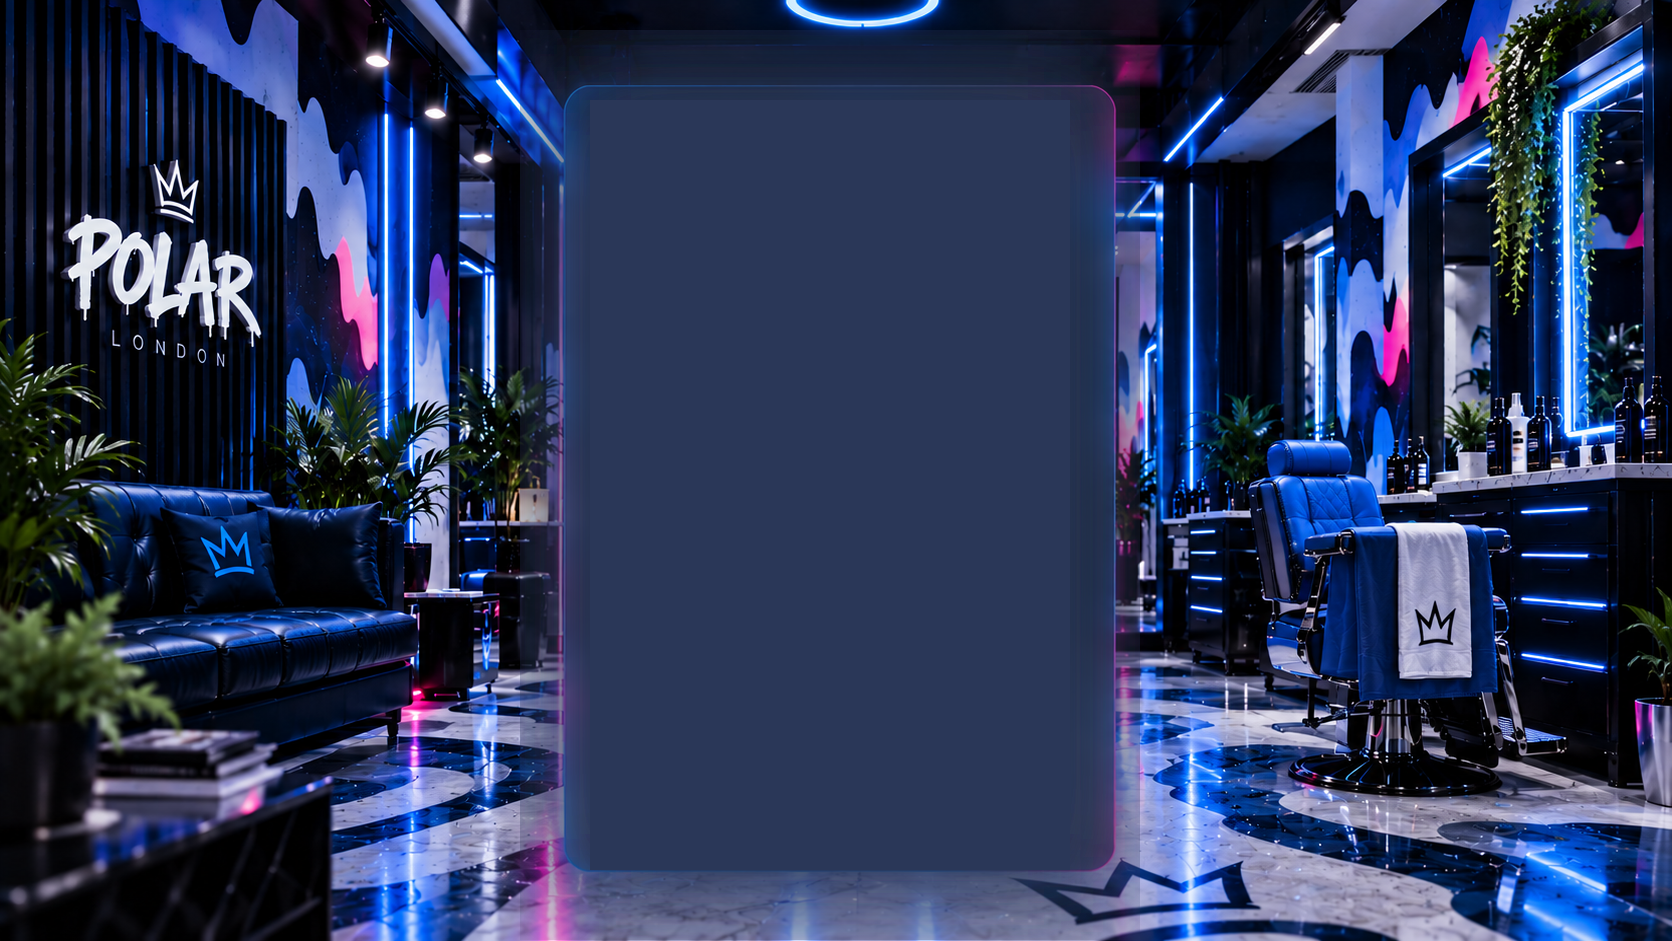
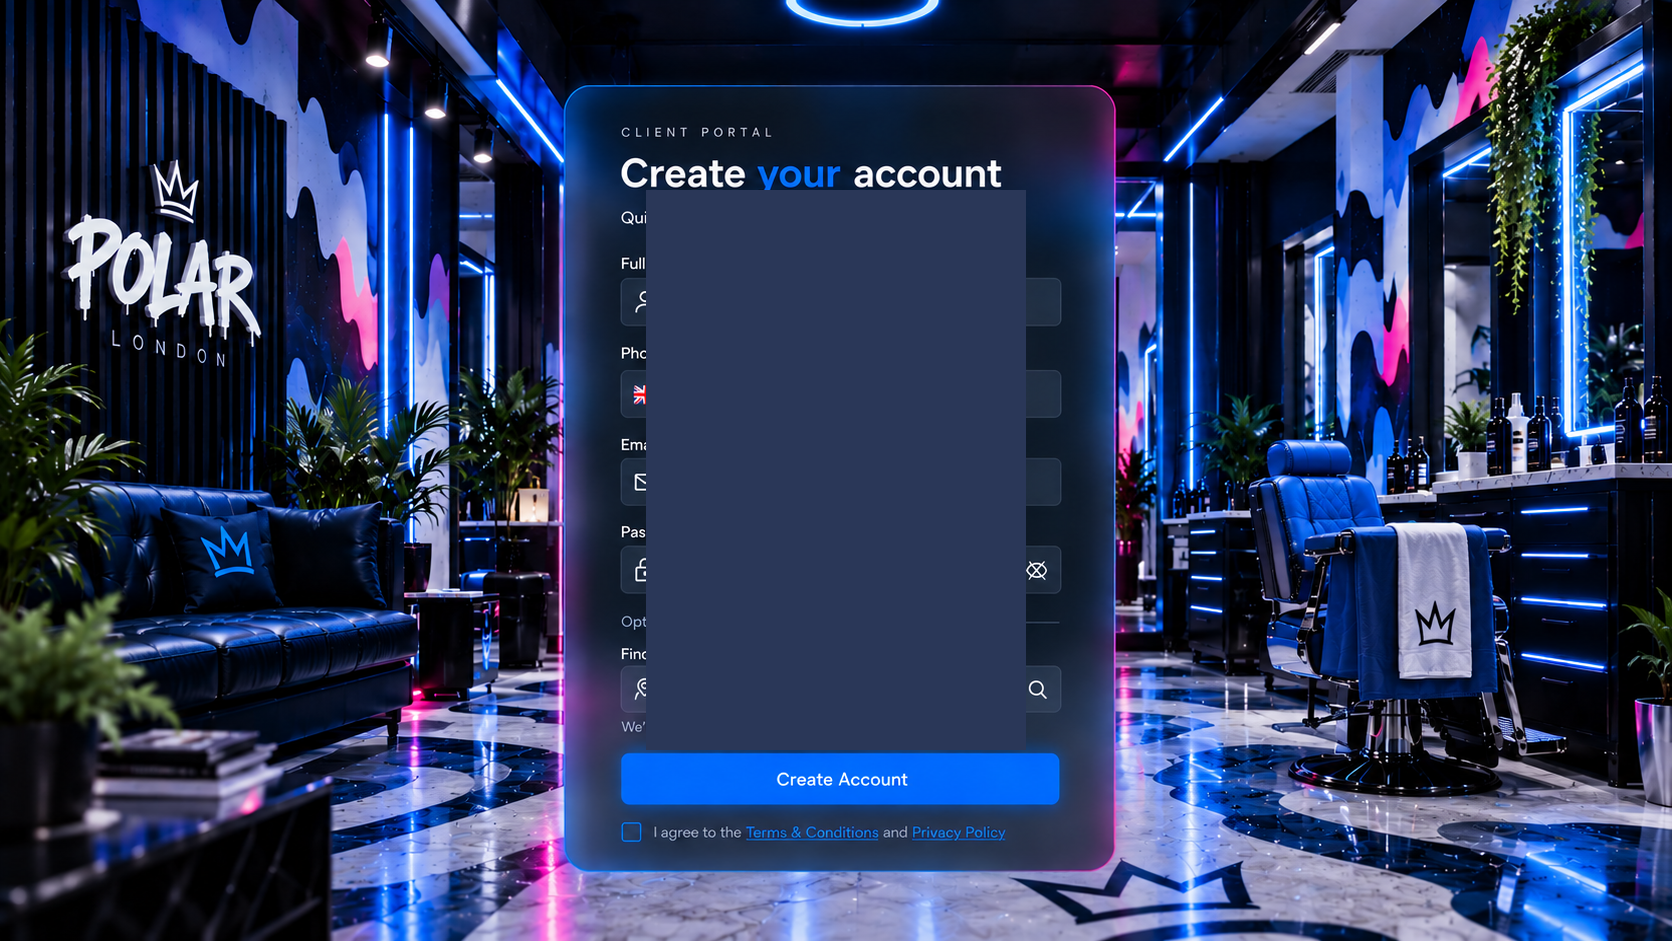
Reduce Client Create Account card to ~50%, two-layer composition only
Card resized to roughly half its prior footprint (max-w-md -> sm:max-w-[300px],
tighter padding/typography/spacing throughout) so desktop is strictly two
visual layers: the POLAR Room background and one floating card, nothing
between them. Removed the page-wide dark overlay div that previously sat
between the two.

Background asset regenerated to match the smaller card's actual footprint
(previous fill region was sized for the old larger card, leaving a visible
ghost outline around the new smaller one).

Mobile, copy, fields, functionality, auth/Supabase/backend unchanged.

Changed region(s): [[0.311, 0.0308, 0.6842, 1.0]]

diff --git a/src/app/signup/client/page.tsx b/src/app/signup/client/page.tsx
@@ -29,6 +29,10 @@ import {
 // top — inputs, password toggle, checkbox, links, button — is real,
 // functional markup, not a click-overlay on a flat image.
 //
+// Desktop is deliberately exactly two visual layers: the room
+// background, and one floating card. No dimming overlay or other
+// layer sits between them.
+//
 // Consent: the artwork shows a single checkbox ("Terms & Conditions
 // and Privacy Policy"). The live signup trigger independently
 // requires a separate, explicit 16+ affirmation
@@ -48,15 +52,14 @@ import {
 // Address: single optional free-text field, per the locked backend
 // resolution — its value is not yet sent to Supabase (see
 // signUpClient); real autocomplete/lookup is a future addition.
-// Desktop (sm+) uses a deliberately tighter vertical rhythm than
-// mobile so the whole card fits one screen with no scroll at normal
-// laptop/desktop sizes (1366x768 and up) — see file header comment
-// and the "single-screen portal" requirement. Mobile keeps its own
-// spacing entirely; every sm: override below only ever tightens, it
-// never changes copy, fields, or input usability (touch targets stay
-// comfortable, just less surrounding whitespace).
+//
+// Desktop (sm+) uses a deliberately much smaller/tighter card than
+// mobile (~50% smaller overall) so it reads as a compact floating
+// card rather than filling the screen. Mobile keeps its own spacing
+// entirely; every sm: override below only ever scales down, it never
+// changes copy, fields, or drops below a usable input size.
 const INPUT_CLASS =
-  "w-full rounded-lg border border-white/15 bg-white/5 py-2.5 sm:py-1.5 pl-10 pr-3 text-sm text-white outline-none placeholder:text-white/40 focus:border-royal-light";
+  "w-full rounded-lg border border-white/15 bg-white/5 py-2.5 sm:py-1 pl-10 sm:pl-8 pr-3 text-sm text-white outline-none placeholder:text-white/40 focus:border-royal-light sm:text-xs";
 
 export default function ClientSignupPage() {
   const [error, setError] = useState<string | null>(null);
@@ -87,15 +90,11 @@ export default function ClientSignupPage() {
 
   return (
     <main className="relative min-h-screen overflow-hidden bg-navy sm:h-[100dvh]">
-      {/* Desktop background: width-driven (100% of viewport width, so
+      {/* Layer 1 — background. Width-driven (100% of viewport width, so
           the POLAR logo on the left and chair on the right are never
           cropped), height derived from the image's own aspect ratio
           (1672x941) rather than stretched or force-fit to the
-          viewport height. On the rare viewport wider-than-16:9 than
-          the source image, overflow-hidden clips symmetrically
-          top/bottom (ceiling/floor) only — never the sides. No
-          object-fit crop/letterbox is needed inside, since this
-          wrapper's aspect ratio always matches the image exactly. */}
+          viewport height. Unchanged from the previous approved fix. */}
       <div className="absolute inset-0 hidden sm:flex sm:items-center sm:justify-center sm:overflow-hidden">
         <div className="relative w-full aspect-[1672/941]">
           <Image
@@ -116,66 +115,67 @@ export default function ClientSignupPage() {
         className="object-cover sm:hidden"
         aria-hidden="true"
       />
-      <div className="absolute inset-0 bg-navy/25" aria-hidden="true" />
 
+      {/* Layer 2 — the one floating card. Nothing else sits between
+          this and the background above. */}
       <div className="relative flex min-h-screen items-center justify-center px-5 py-16 sm:h-[100dvh] sm:min-h-0 sm:px-12 sm:py-4">
         <form
           onSubmit={handleSubmit}
-          className="w-full max-w-md rounded-2xl border border-white/15 bg-navy/70 p-6 text-white shadow-ice-lg backdrop-blur-xl sm:max-w-sm sm:p-5"
+          className="w-full max-w-md rounded-2xl border border-white/15 bg-navy/70 p-6 text-white shadow-ice-lg backdrop-blur-xl sm:max-w-[300px] sm:p-4"
         >
-          <p className="font-display text-xs tracking-[0.25em] text-royal-light">CLIENT PORTAL</p>
-          <h1 className="mt-2 font-display text-3xl tracking-wide sm:mt-1 sm:text-2xl">
+          <p className="font-display text-xs tracking-[0.25em] text-royal-light sm:text-[10px]">CLIENT PORTAL</p>
+          <h1 className="mt-2 font-display text-3xl tracking-wide sm:mt-1 sm:text-lg">
             Create <span className="text-royal-light">your</span> account
           </h1>
-          <p className="mt-1 text-sm text-white/60">Quick and easy. Get started in seconds.</p>
+          <p className="mt-1 text-sm text-white/60 sm:text-[11px]">Quick and easy. Get started in seconds.</p>
 
-          <div className="mt-6 space-y-4 sm:mt-3 sm:space-y-2">
+          <div className="mt-6 space-y-4 sm:mt-2 sm:space-y-1.5">
             <label className="block">
-              <span className="mb-1 block text-sm text-white/80">Full Name</span>
+              <span className="mb-1 block text-sm text-white/80 sm:text-xs">Full Name</span>
               <div className="relative">
-                <span className="pointer-events-none absolute inset-y-0 left-3 flex items-center">
-                  <UserIcon className="h-5 w-5 text-white/50" />
+                <span className="pointer-events-none absolute inset-y-0 left-3 flex items-center sm:left-2.5">
+                  <UserIcon className="h-5 w-5 text-white/50 sm:h-3.5 sm:w-3.5" />
                 </span>
                 <input name="full_name" type="text" required placeholder="e.g. Ahmed Khan" className={INPUT_CLASS} />
               </div>
             </label>
 
             <div>
-              <span className="mb-1 block text-sm text-white/80">Phone Number</span>
-              <div className="flex gap-2">
+              <span className="mb-1 block text-sm text-white/80 sm:text-xs">Phone Number</span>
+              <div className="flex gap-2 sm:gap-1.5">
                 <div
                   aria-hidden="true"
-                  className="flex shrink-0 items-center gap-1.5 rounded-lg border border-white/15 bg-white/5 px-3 py-2.5 text-sm text-white/80 sm:py-1.5"
+                  className="flex shrink-0 items-center gap-1.5 rounded-lg border border-white/15 bg-white/5 px-3 py-2.5 text-sm text-white/80 sm:gap-1 sm:px-2 sm:py-1 sm:text-xs"
                 >
                   <span>🇬🇧</span>
                   <span>+44</span>
-                  <ChevronDownIcon />
+                  <ChevronDownIcon className="h-3.5 w-3.5 sm:h-3 sm:w-3" />
                 </div>
                 <input
                   name="phone"
                   type="tel"
                   required
                   placeholder="e.g. 7700 900123"
-                  className="w-full flex-1 rounded-lg border border-white/15 bg-white/5 px-3 py-2.5 text-sm text-white outline-none placeholder:text-white/40 focus:border-royal-light sm:py-1.5"
+                  className="w-full flex-1 rounded-lg border border-white/15 bg-white/5 px-3 py-2.5 text-sm text-white outline-none placeholder:text-white/40 focus:border-royal-light sm:py-1 sm:text-xs"
                 />
               </div>
             </div>
 
             <label className="block">
-              <span className="mb-1 block text-sm text-white/80">Email</span>
+              <span className="mb-1 block text-sm text-white/80 sm:text-xs">Email</span>
               <div className="relative">
-                <span className="pointer-events-none absolute inset-y-0 left-3 flex items-center">
-                  <EnvelopeIcon className="h-5 w-5 text-white/50" />
+                <span className="pointer-events-none absolute inset-y-0 left-3 flex items-center sm:left-2.5">
+                  <EnvelopeIcon className="h-5 w-5 text-white/50 sm:h-3.5 sm:w-3.5" />
                 </span>
                 <input name="email" type="email" required placeholder="e.g. you@example.com" className={INPUT_CLASS} />
               </div>
             </label>
 
             <div>
-              <span className="mb-1 block text-sm text-white/80">Password</span>
+              <span className="mb-1 block text-sm text-white/80 sm:text-xs">Password</span>
               <div className="relative">
-                <span className="pointer-events-none absolute inset-y-0 left-3 flex items-center">
-                  <LockIcon className="h-5 w-5 text-white/50" />
+                <span className="pointer-events-none absolute inset-y-0 left-3 flex items-center sm:left-2.5">
+                  <LockIcon className="h-5 w-5 text-white/50 sm:h-3.5 sm:w-3.5" />
                 </span>
                 <input
                   name="password"
@@ -183,59 +183,63 @@ export default function ClientSignupPage() {
                   required
                   minLength={12}
                   placeholder="Minimum 12 characters"
-                  className={`${INPUT_CLASS} pr-11`}
+                  className={`${INPUT_CLASS} pr-11 sm:pr-8`}
                 />
                 <button
                   type="button"
                   onClick={() => setShowPassword((v) => !v)}
                   aria-label={showPassword ? "Hide password" : "Show password"}
-                  className="absolute inset-y-0 right-3 flex items-center text-white/50 hover:text-white"
+                  className="absolute inset-y-0 right-3 flex items-center text-white/50 hover:text-white sm:right-2.5"
                 >
-                  {showPassword ? <EyeOffIcon /> : <EyeIcon />}
+                  {showPassword ? (
+                    <EyeOffIcon className="h-5 w-5 sm:h-3.5 sm:w-3.5" />
+                  ) : (
+                    <EyeIcon className="h-5 w-5 sm:h-3.5 sm:w-3.5" />
+                  )}
                 </button>
               </div>
             </div>
 
-            <div className="border-t border-white/10 pt-4 sm:pt-2">
-              <span className="mb-1 block text-xs uppercase tracking-wide text-white/40">Optional</span>
-              <span className="mb-1 hidden text-sm text-white/80 sm:block">Find your address (optional)</span>
+            <div className="border-t border-white/10 pt-4 sm:pt-1.5">
+              <span className="mb-1 block text-xs uppercase tracking-wide text-white/40 sm:text-[9px]">Optional</span>
+              <span className="mb-1 hidden text-sm text-white/80 sm:block sm:text-xs">Find your address (optional)</span>
               <span className="mb-1 block text-sm text-white/80 sm:hidden">Address (optional)</span>
               <div className="relative">
-                <span className="pointer-events-none absolute inset-y-0 left-3 flex items-center">
-                  <PinIcon className="h-5 w-5 text-white/50" />
+                <span className="pointer-events-none absolute inset-y-0 left-3 flex items-center sm:left-2.5">
+                  <PinIcon className="h-5 w-5 text-white/50 sm:h-3.5 sm:w-3.5" />
                 </span>
                 <input
                   name="address"
                   type="text"
                   placeholder="e.g. 123 High Street, London"
-                  className={`${INPUT_CLASS} sm:pr-10`}
+                  className={`${INPUT_CLASS} sm:pr-8`}
                 />
-                <span className="pointer-events-none absolute inset-y-0 right-3 hidden items-center sm:flex">
-                  <SearchIcon />
+                <span className="pointer-events-none absolute inset-y-0 right-3 hidden items-center sm:flex sm:right-2.5">
+                  <SearchIcon className="h-4 w-4 sm:h-3 sm:w-3" />
                 </span>
               </div>
-              <p className="mt-1 hidden text-xs text-white/40 sm:block">
+              <p className="mt-1 hidden text-xs text-white/40 sm:block sm:text-[10px]">
                 We&rsquo;ll suggest matching addresses as you type.
               </p>
             </div>
           </div>
 
-          {error && <p className="mt-4 text-sm text-red-300">{error}</p>}
+          {error && <p className="mt-4 text-sm text-red-300 sm:mt-2 sm:text-xs">{error}</p>}
 
           <button
             type="submit"
             disabled={pending}
-            className="mt-6 w-full rounded-lg bg-royal py-3 text-center font-display text-sm tracking-wide text-white shadow-ice transition hover:bg-royal-dark disabled:opacity-60 sm:mt-3 sm:py-2"
+            className="mt-6 w-full rounded-lg bg-royal py-3 text-center font-display text-sm tracking-wide text-white shadow-ice transition hover:bg-royal-dark disabled:opacity-60 sm:mt-2 sm:py-1.5 sm:text-xs"
           >
             {pending ? "Creating account…" : "Create Account"}
           </button>
 
-          <label className="mt-4 flex items-start gap-2 text-xs text-white/70 sm:mt-2">
+          <label className="mt-4 flex items-start gap-2 text-xs text-white/70 sm:mt-1.5 sm:gap-1.5 sm:text-[10px]">
             <input
               type="checkbox"
               required
               onChange={handleConsentChange}
-              className="mt-0.5 h-4 w-4 rounded border-white/30 bg-white/5"
+              className="mt-0.5 h-4 w-4 rounded border-white/30 bg-white/5 sm:h-3 sm:w-3"
             />
             <span>
               I agree to the{" "}
@@ -256,7 +260,7 @@ export default function ClientSignupPage() {
           <input type="checkbox" name="privacy_accepted" className="hidden" />
           <input type="checkbox" name="age_confirmed" className="hidden" />
 
-          <p className="mt-4 text-center text-xs text-white/50 sm:mt-2">
+          <p className="mt-4 text-center text-xs text-white/50 sm:mt-1.5 sm:text-[10px]">
             Already have an account?{" "}
             <Link href="/login" className="text-royal-light underline">
               Log in
